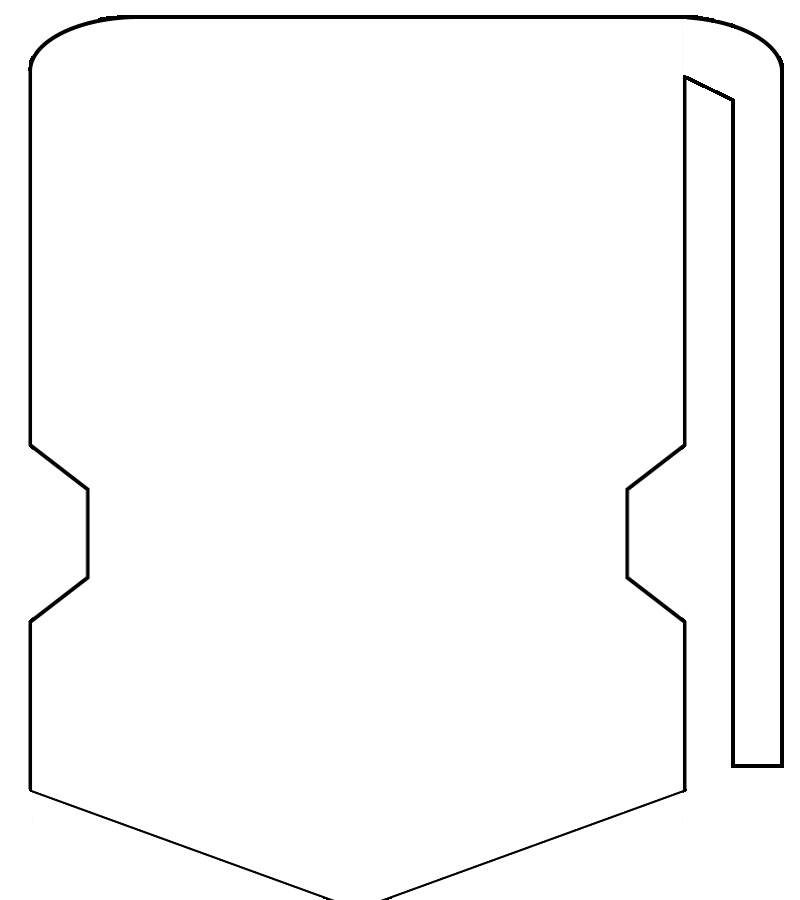
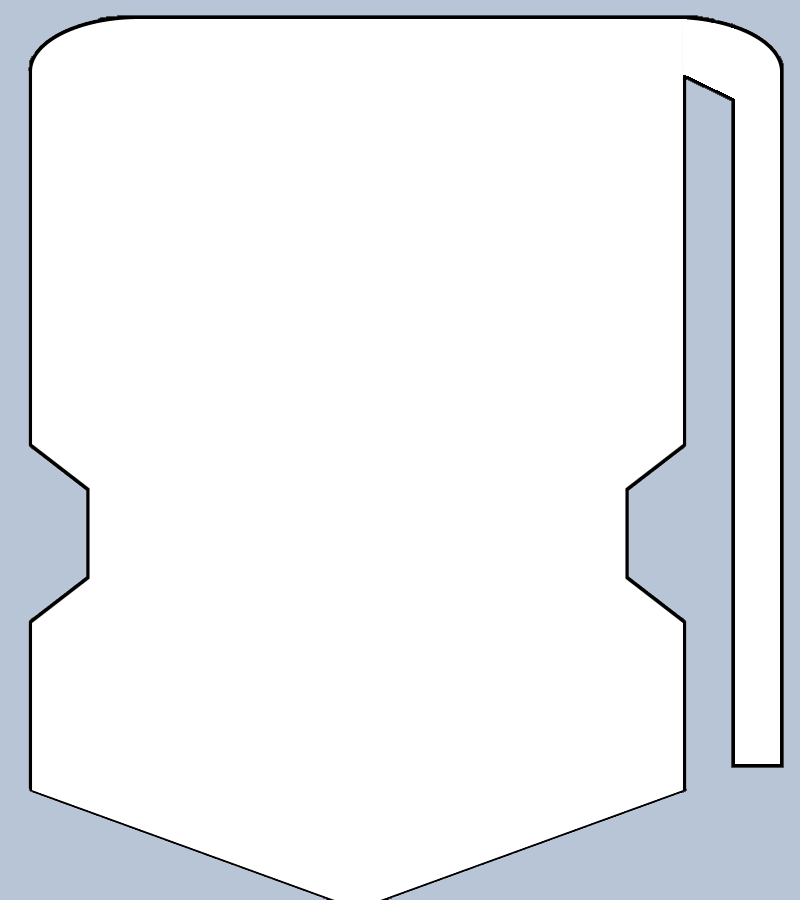
- Added sprites for the pinball board

Changed region(s): [[0.0, 0.0, 1.0, 1.0]]

diff --git a/pinball/core/src/com/pinball/mygame/MyGame.java b/pinball/core/src/com/pinball/mygame/MyGame.java
@@ -25,42 +25,45 @@ public class MyGame extends ApplicationAdapter {
     Body pinballBoard;
     Body pinballBoardPaddleArea1;
     Body pinballBoardPaddleArea2;
+    Sprite pinballBoardSprite;
+    Sprite pinballBoardPaddleArea1Sprite;
+    Sprite pinballBoardPaddleArea2Sprite;
 
 	@Override
 	public void create () { // this is where assets are usually loaded, apparently
         Box2D.init();
         world = new World(new Vector2(0, -50), true);
-
         physicsBodies = new PhysicsShapeCache("physics.xml");
-
 		batch = new SpriteBatch();
-
 		camera = new OrthographicCamera();
         viewport = new ExtendViewport(800*SCALE_FACTOR, 900*SCALE_FACTOR, camera);
+        debugRenderer = new Box2DDebugRenderer();
 
-        Texture pinballTexture = new Texture("pinball v2.png"); // so I don't need to .dispose() this one?
-        pinball = new Sprite(pinballTexture, 0, 0, 32, 32);
-        pinball.setScale(SCALE_FACTOR);
-        pinball.setOrigin(0, 0);
-
+        pinball = prepareGenericSprite("pinball v2.png", 32, 32);
         pinballPhysicsSpot = createBody("pinball v2", 5, 40, 0);
 
-        debugRenderer = new Box2DDebugRenderer();
+        pinballBoardSprite = prepareGenericSprite("pinball board.png", 800, 900);
+        pinballBoardPaddleArea1Sprite = prepareGenericSprite("pinball board paddle area.png", 800, 900);
+        pinballBoardPaddleArea2Sprite = prepareGenericSprite("pinball board paddle area2.png", 800, 900);
 	}
 
 	@Override
 	public void render () {
-		ScreenUtils.clear(0, 0, 0, 1);
-
+		ScreenUtils.clear(0.36f, 0.4f, 0.45f, 1);
         stepWorld();
-
 		batch.begin();
+
         Vector2 pinballPosition = pinballPhysicsSpot.getPosition();
         float pinballDegrees = (float) Math.toDegrees(pinballPhysicsSpot.getAngle()); // doesn't do anything to circles?
         drawSprite(pinball, pinballPosition.x, pinballPosition.y, pinballDegrees);
+        drawSprite(pinballBoardSprite, 0, 0, 0);
+        drawSprite(pinballBoardPaddleArea1Sprite, 0, 0, 0);
+        drawSprite(pinballBoardPaddleArea2Sprite, 0, 0, 0);
+
 		batch.end();
 
-        debugRenderer.render(world, camera.combined);
+        // DEBUG WIREFRAME:
+        //debugRenderer.render(world, camera.combined);
 	}
 
     private void drawSprite(Sprite sprite, float x, float y, float degrees) {
@@ -102,13 +105,21 @@ public class MyGame extends ApplicationAdapter {
         return body;
     }
 
+    private Sprite prepareGenericSprite(String texture, int width, int height) {
+        Texture spriteTexture = new Texture(texture);
+        Sprite sprite = new Sprite(spriteTexture, 0, 0, width, height); // MIGHT be a performance problem
+        sprite.setScale(SCALE_FACTOR);
+        sprite.setOrigin(0, 0);
+        return sprite;
+    }
+
 	@Override
 	public void dispose () {
 		batch.dispose();
         world.dispose();
         debugRenderer.dispose();
 	}
-    
+
     // START SUGGESTED CODE FROM -> https://www.codeandweb.com/physicseditor/tutorials/libgdx-physics
     static final float STEP_TIME = 1f / 60f;
     static final int VELOCITY_ITERATIONS = 6;
